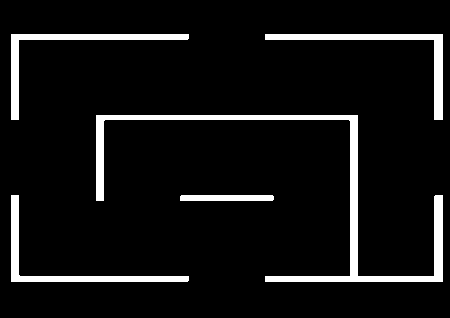
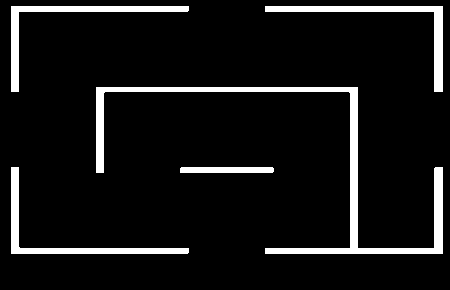
Wall changes

diff --git a/Pacman Goes Berzerk/Pacman Goes Berzerk/Pages/GamePage.xaml.cs b/Pacman Goes Berzerk/Pacman Goes Berzerk/Pages/GamePage.xaml.cs
@@ -98,13 +98,15 @@ namespace Pacman_Goes_Berzerk
             //Enable debug drawing
             drawIndex.SetDebugDrawing(true);
 
-            //Add a wall
-            WallGameObject wall = new WallGameObject(new Vector2(100, 100), new Vector2(150, 200));
+            //Add walls
+            WallGameObject wall = new WallGameObject(new Vector2(0, 0), new Vector2(40, 500));
             gameObjects.registerGameObject(wall);
-            WallGameObject wall2 = new WallGameObject(new Vector2(150, 200), new Vector2(350, 250));
+            WallGameObject wall2 = new WallGameObject(new Vector2(0, 0), new Vector2(850, 20));
             gameObjects.registerGameObject(wall2);
-            WallGameObject wall3 = new WallGameObject(new Vector2(300, 100), new Vector2(350, 200));
+            WallGameObject wall3 = new WallGameObject(new Vector2(830, 0), new Vector2(850, 500));
             gameObjects.registerGameObject(wall3);
+            WallGameObject wall4 = new WallGameObject(new Vector2(0, 480), new Vector2(850, 500));
+            gameObjects.registerGameObject(wall4);
 
             //Add an enemy object
             EnemyGameObject enemy = new EnemyGameObject(new Vector2(300, 300), gameObjects, new Random());
@@ -115,11 +117,11 @@ namespace Pacman_Goes_Berzerk
         private void canvas_Update(ICanvasAnimatedControl sender, CanvasAnimatedUpdateEventArgs args)
         {
 
-            //Check for collision events
-            collisions.CollisionTest();
-
             //Update game objects
             gameObjects.Update(MILLISECONDS_PER_FRAME);
+
+            //Check for collision events
+            collisions.CollisionTest();
         }
 
         private void canvas_Draw(ICanvasAnimatedControl sender, CanvasAnimatedDrawEventArgs args)

diff --git a/Pacman Goes Berzerk/Pacman Goes Berzerk/Game/Game objects/PlayerGameObject.cs b/Pacman Goes Berzerk/Pacman Goes Berzerk/Game/Game objects/PlayerGameObject.cs
@@ -16,7 +16,7 @@ namespace Pacman_Goes_Berzerk.Game.Game_objects
     {
 
         //The collider size
-        public static Vector2 HITBOX_SIZE = new Vector2(50, 50);
+        public static Vector2 HITBOX_SIZE = new Vector2(25, 25);
 
         //The movement speed
         public static double SPEED = 100.0;
